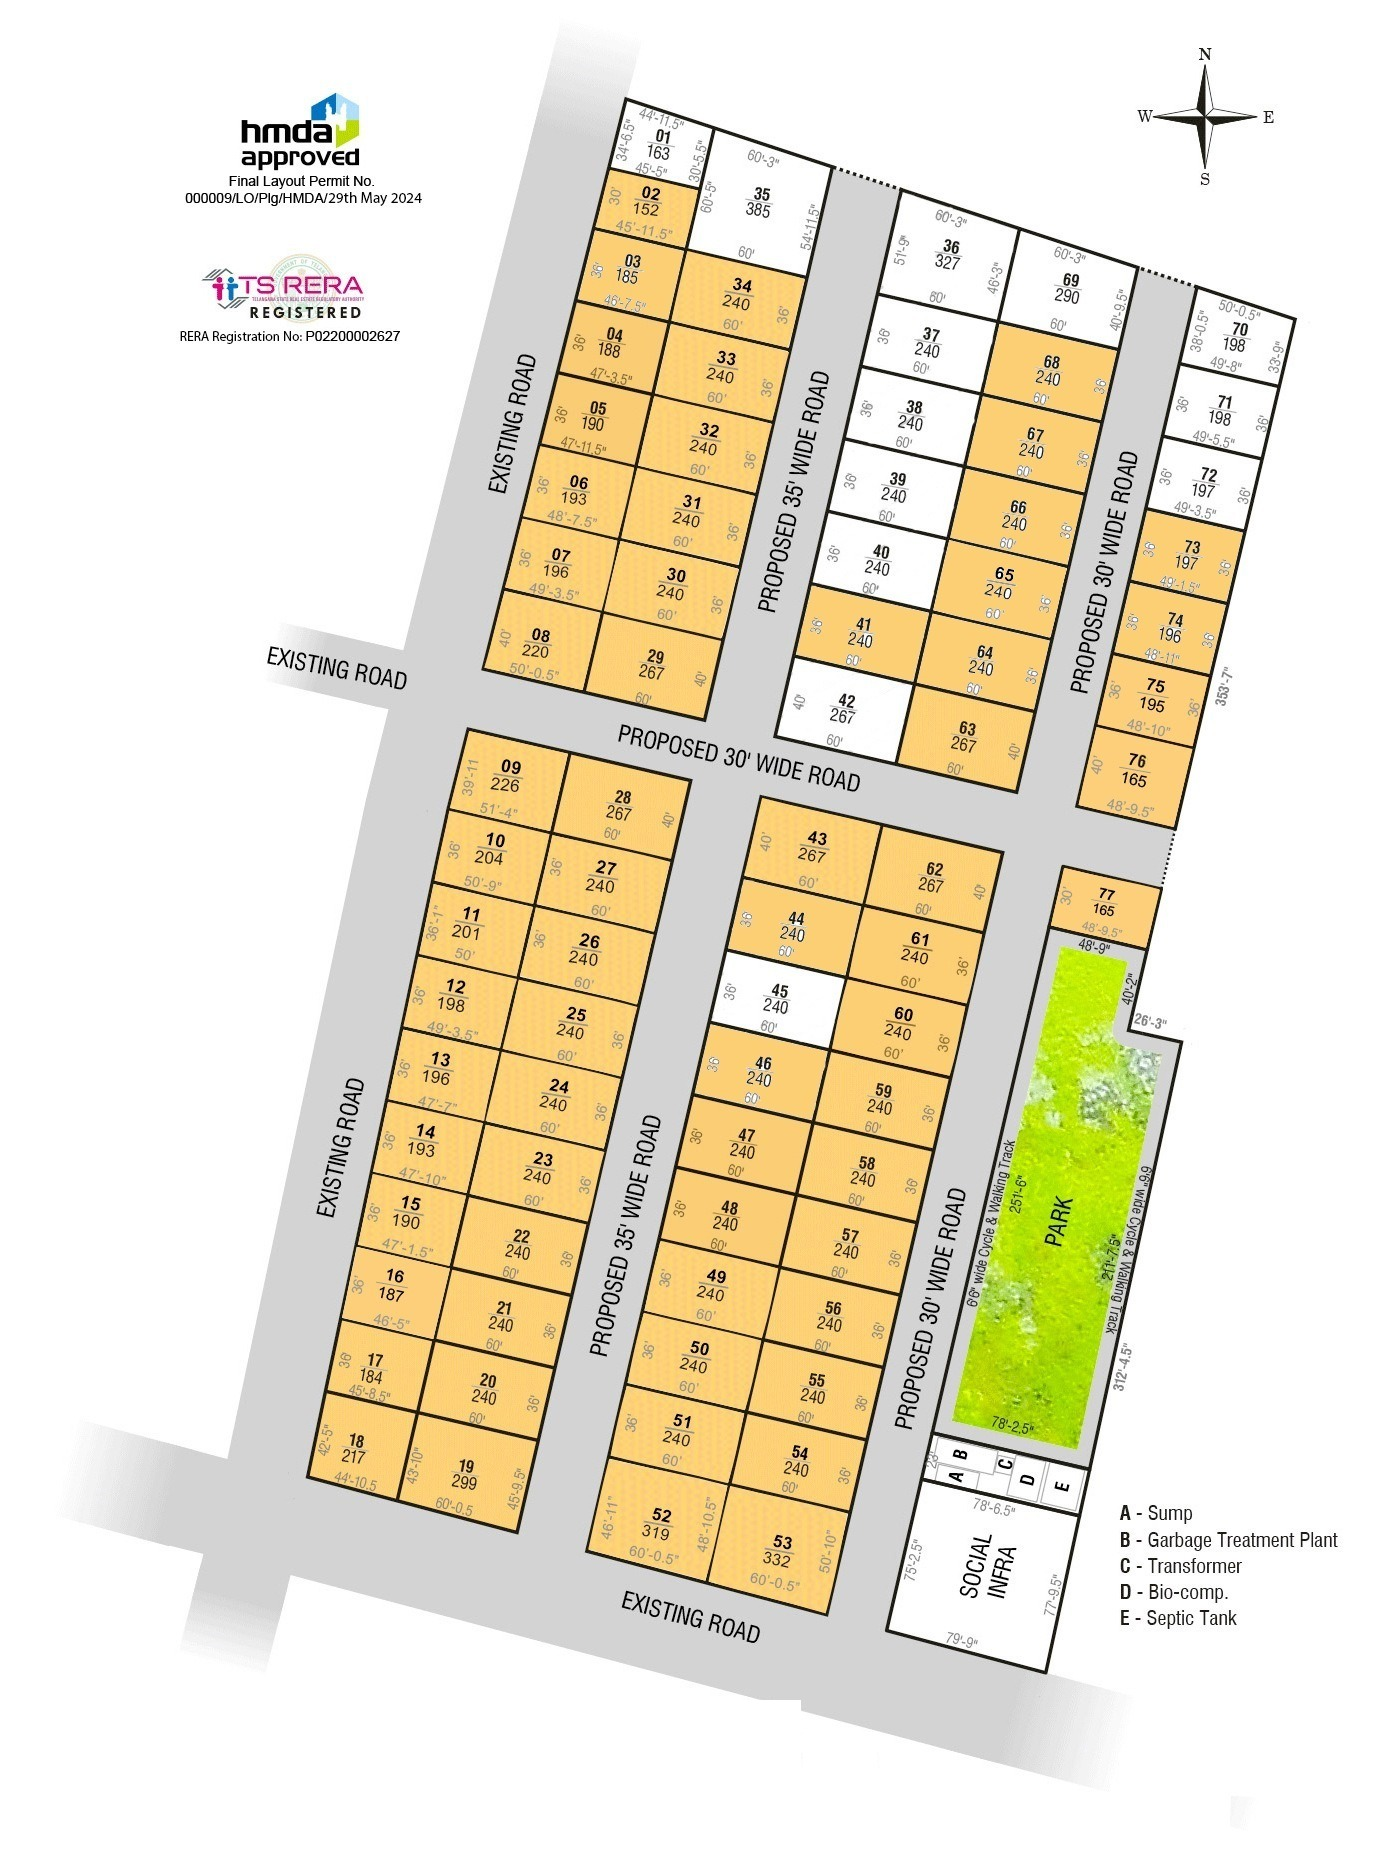
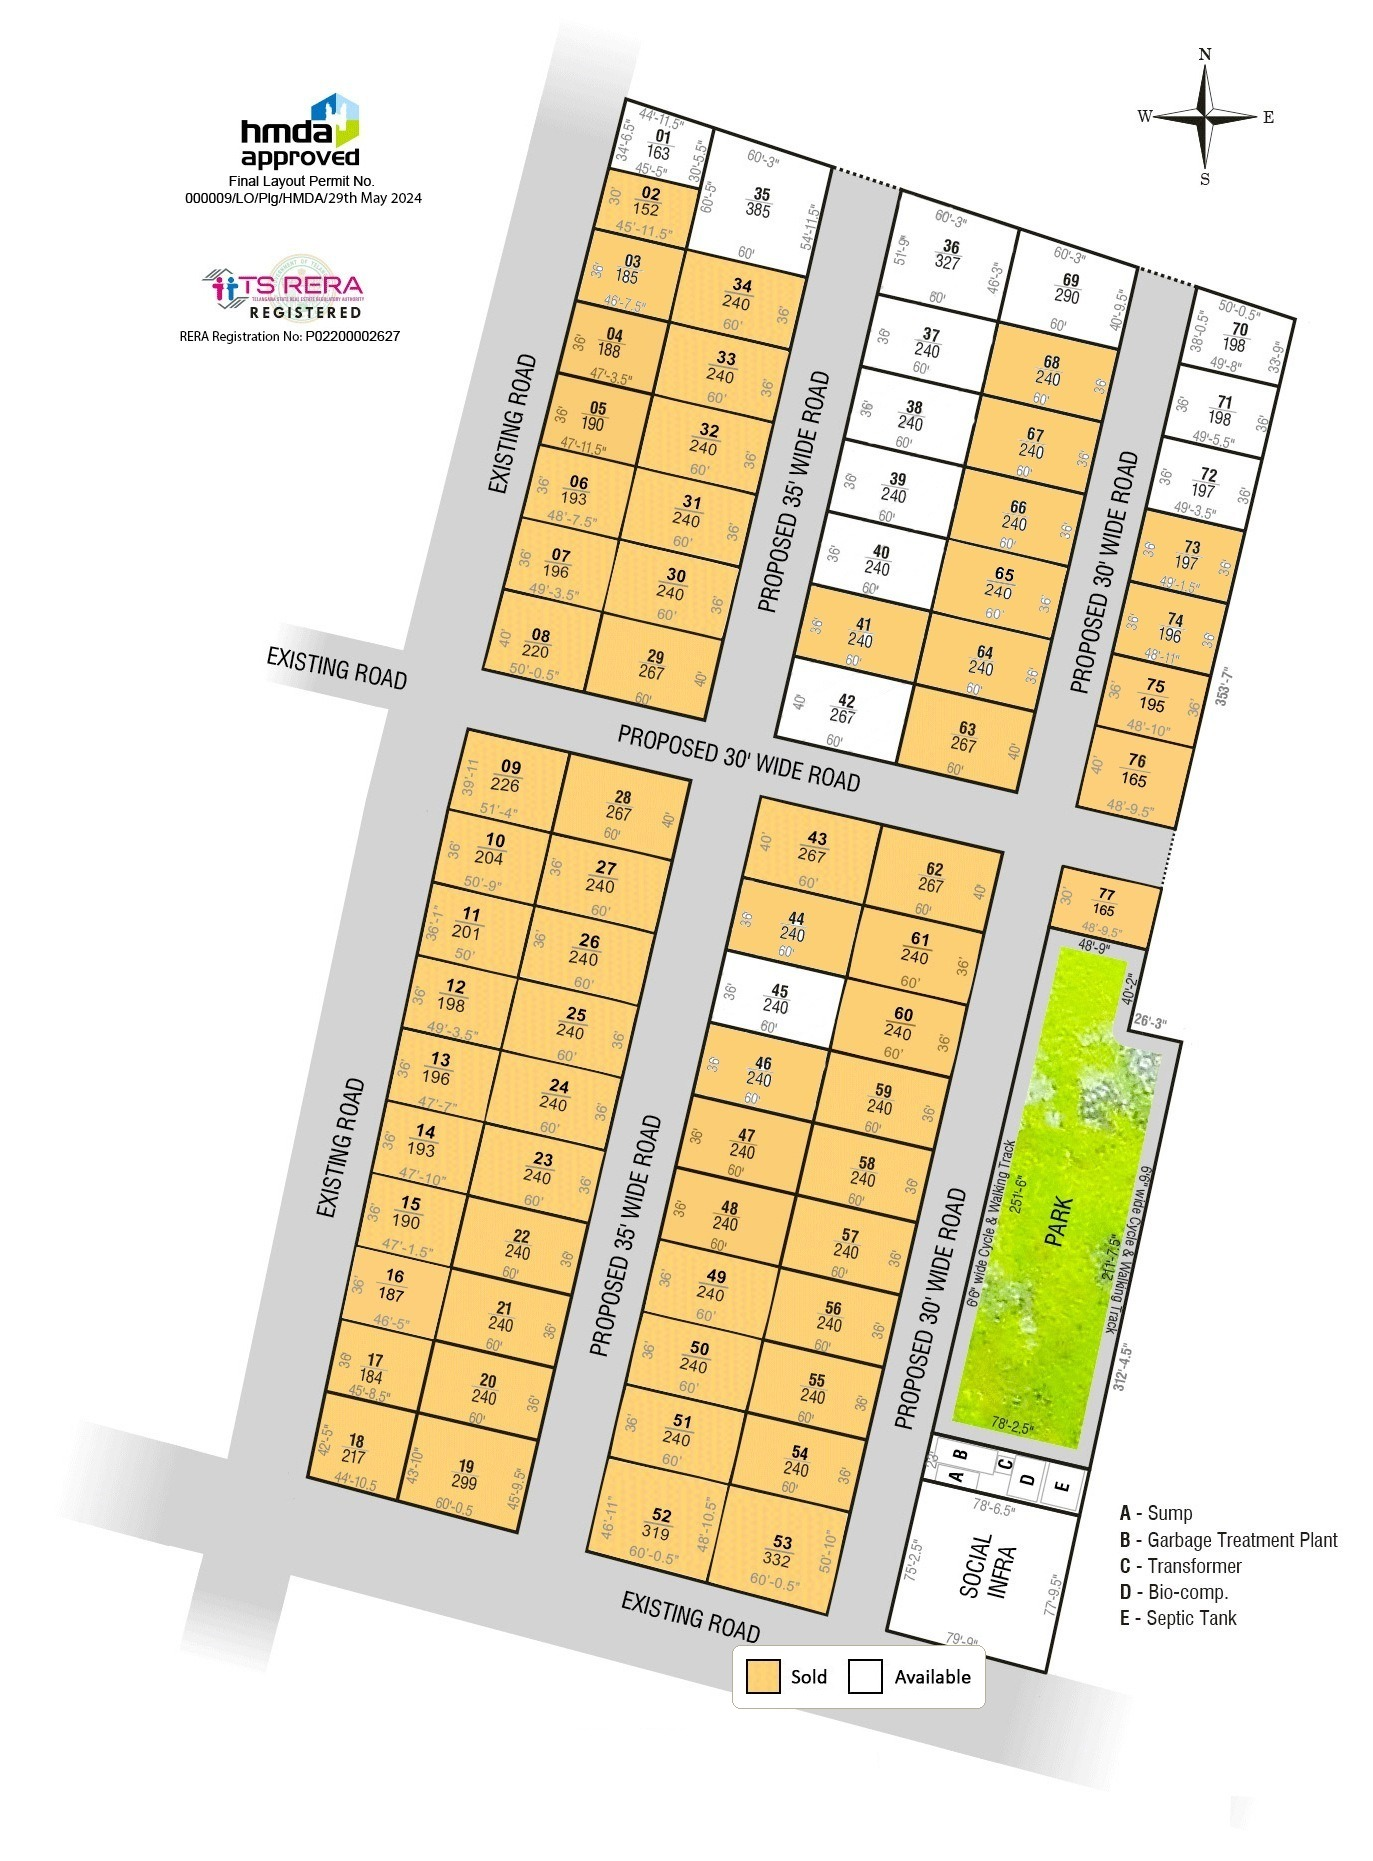
Park Central: move Sold/Available legend onto the road band (clean pill, centered on road axis); remove duplicate HTML legend

Changed region(s): [[0.52, 0.8726, 0.7342, 0.935]]

diff --git a/parkcentral/index.html b/parkcentral/index.html
@@ -181,10 +181,6 @@
         <a class="btn solid avail-cta" href="https://wa.me/917207370808?text=Hello%20Epic%20Developers%2C%20I%27d%20like%20to%20check%20plot%20availability%20at%20Park%20Central%2C%20Dundigal." target="_blank" rel="noopener">Enquire on WhatsApp</a>
       </aside>
     </div>
-    <div class="plan-legend">
-      <span class="lg-item"><span class="lg-swatch sold"></span>Sold</span>
-      <span class="lg-item"><span class="lg-swatch avail"></span>Available</span>
-    </div>
     <p class="plan-permit-caption">HMDA Final Layout Permit No. 000009/LO/Plg/HMDA · 29 May 2024 · Dundigal, Hyderabad</p>
     <p class="plan-price" style="text-align:center;margin:24px auto 0"><strong>West-facing from &#8377;38,000 / sq. yd.</strong></p>
   </div>
